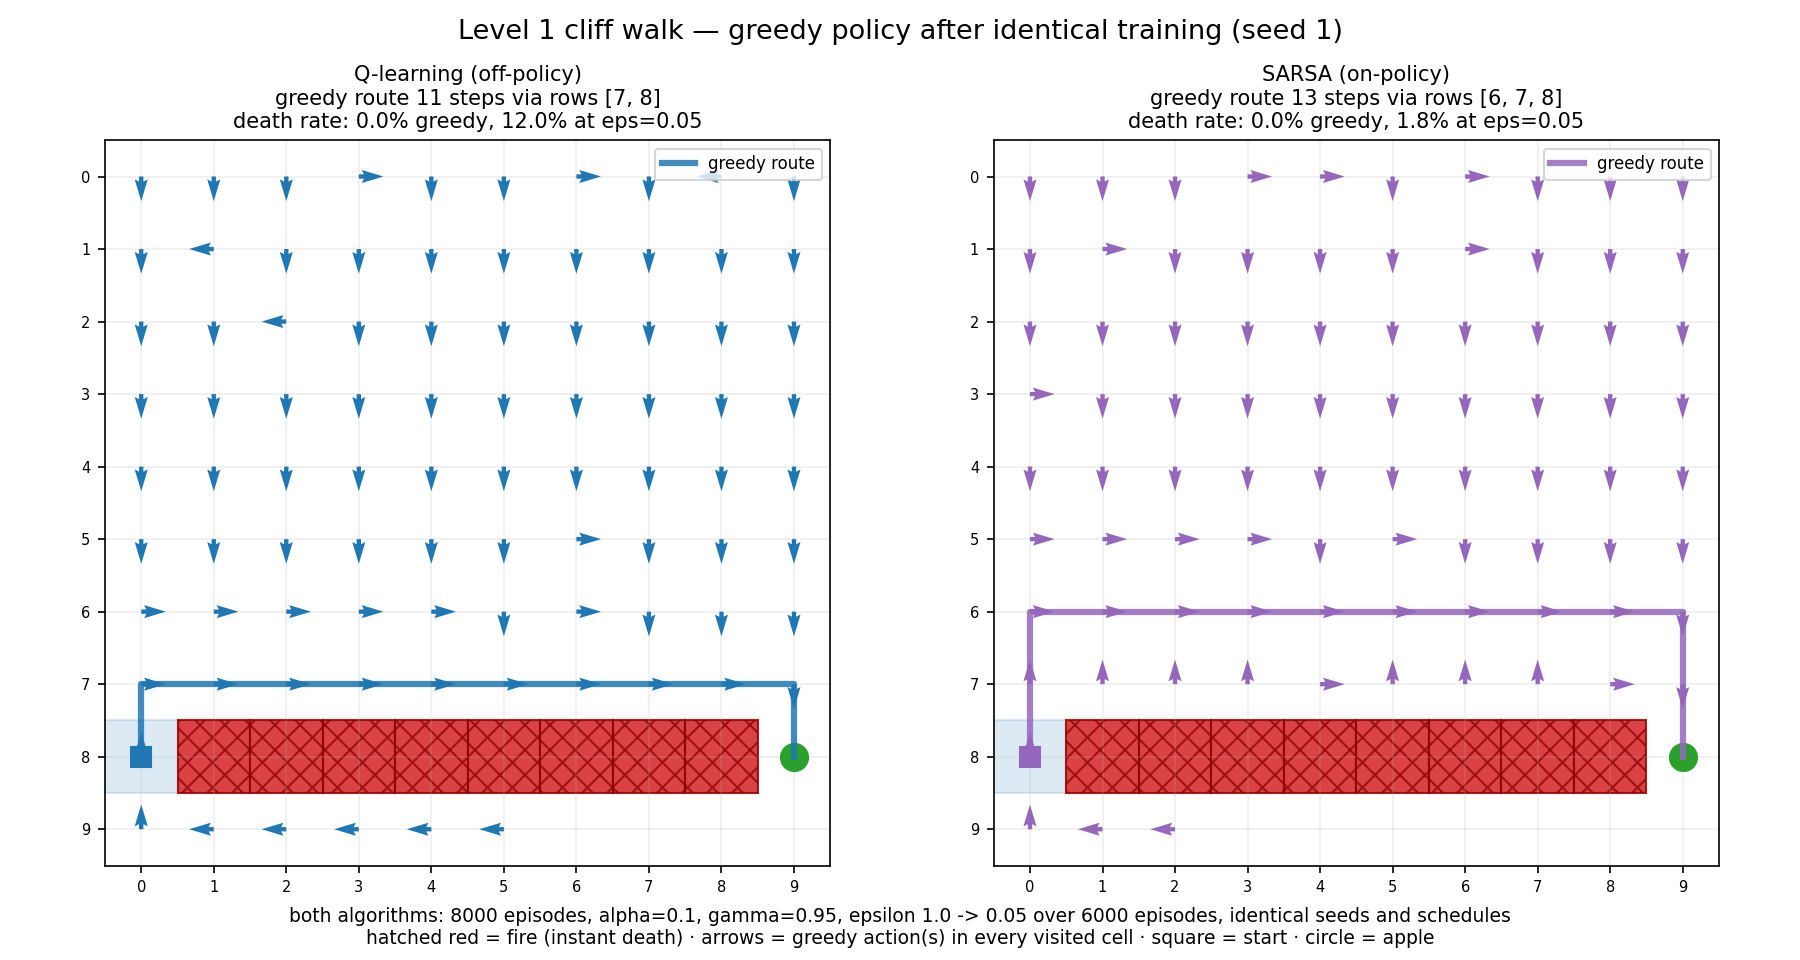
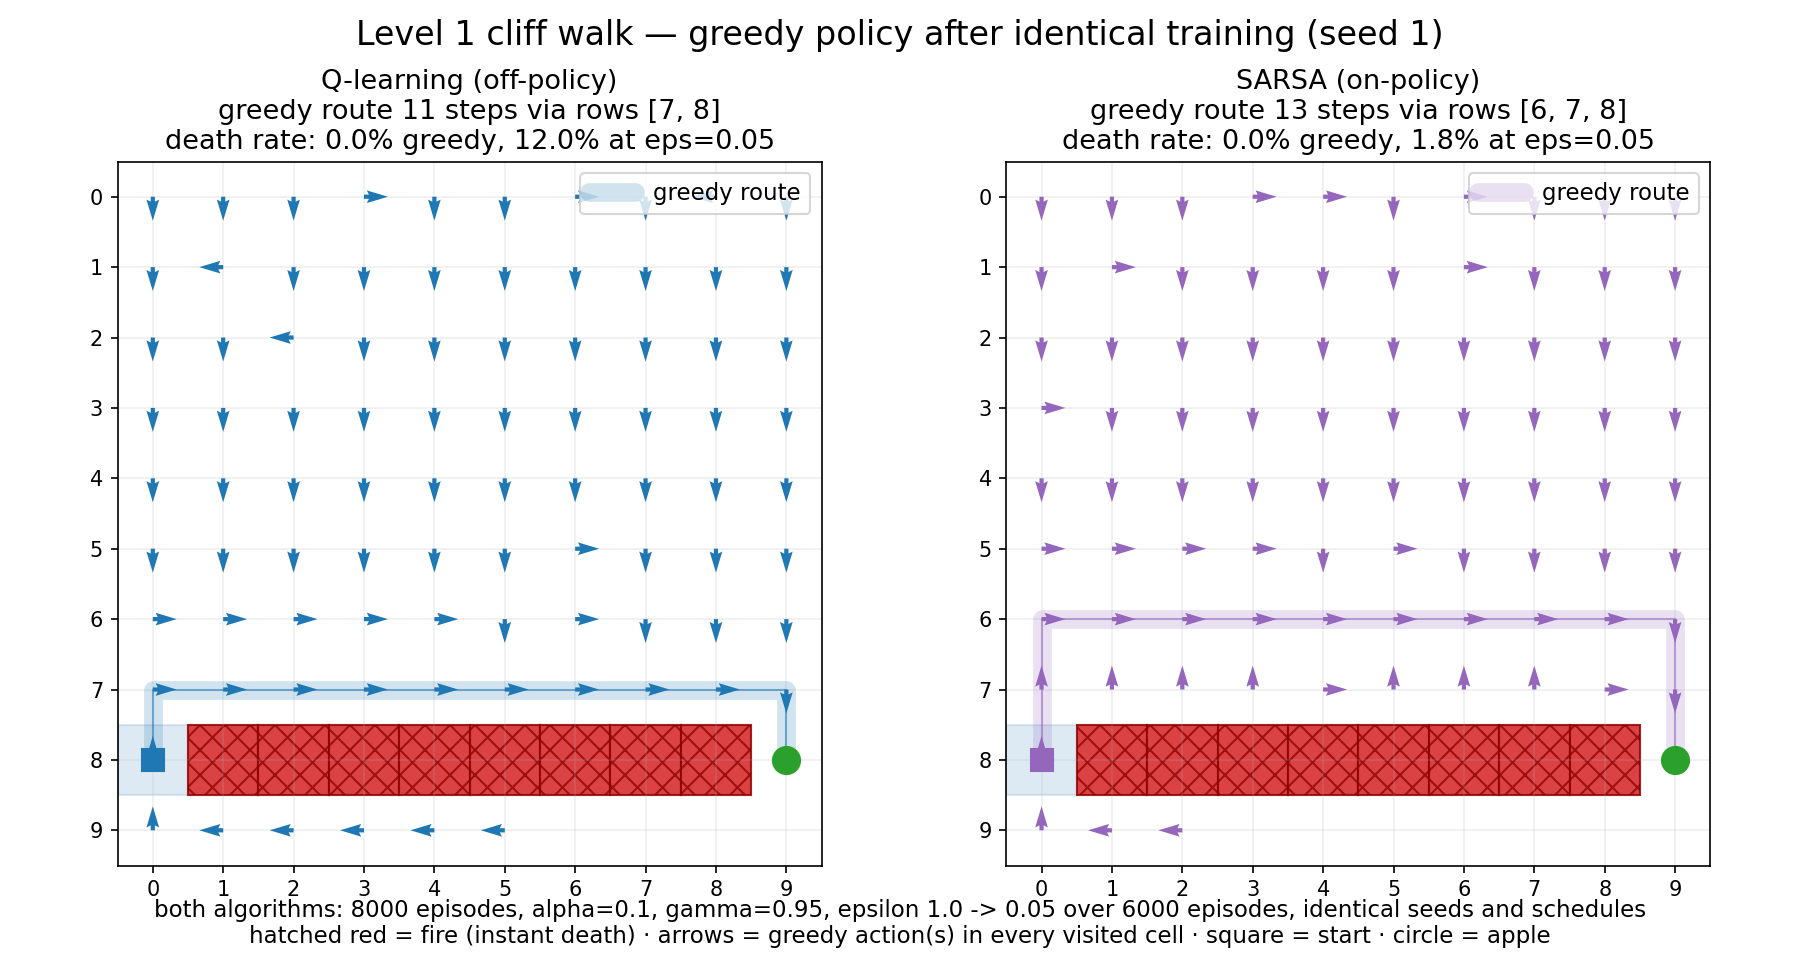
fix(results): stop the route line hiding the level 1 policy arrows (A3-019)
The greedy route was drawn at zorder 5 over an arrow field at zorder 3, so
Q-learning's row-7 arrows were completely covered. Those arrows running
parallel to the fire are the visual claim of that panel, and SARSA's route
leaves row 7 clear, so the defect silently weakened exactly one half of a
side-by-side comparison. The route is now a wide translucent corridor at
zorder 2.0 with a thin centre line at 2.5, both below the arrows.

Font sizes rise throughout - panel titles 10 to 13pt, legend 8 to 11, caption
9 to 11, suptitle 13 to 16, tick labels 7 to 10. The report has a hard ten
page limit, so this figure will be placed at roughly 60% scale, where 7pt tick
labels land at 4.2pt.

Two prose corrections. The 11-step optimum is not unique: row 7 above the fire
and row 9 below it both tie, which is worth saying because it makes the point
that the shortest route is necessarily a fire-hugging one. And SARSA is now
described by its route length and the rows it uses rather than as never going
near the fire - on some seeds it descends its final column early and clips one
fire-adjacent cell, which lifts its death rate to about 4%. The direction of
the effect is stable across seeds; that stronger phrasing is not.

Regenerated for seeds 0 and 1. Both still report ROUTES DIFFER.

Closes A3-019. Also closes A3-007, verified independently: every headline
number recomputed from the raw per-episode CSVs, and four mutants applied to
[…]

diff --git a/train/train_gridworld.py b/train/train_gridworld.py
@@ -446,7 +446,7 @@ def _draw_level_background(axis, grid, bit_cells, mask: int, n_rows: int, n_cols
     axis.set_yticks(range(n_rows))
     axis.set_aspect("equal")
     axis.grid(alpha=0.2)
-    axis.tick_params(labelsize=7)
+    axis.tick_params(labelsize=10)
 
 
 # --- run ----------------------------------------------------------------------------------------
@@ -739,10 +739,18 @@ def plot_policy_comparison(
             axis.quiver(xs, ys, us, vs, angles="xy", scale_units="xy", scale=1.0, color=colour,
                         width=0.006, zorder=3)
 
+        # The route is a wide translucent corridor UNDERNEATH the arrows (zorder 3), not a solid
+        # line over them. Drawn on top at linewidth 3 it hid Q-learning's row-7 arrows entirely --
+        # and those arrows, running parallel to the fire, are the whole visual claim of this panel.
+        # SARSA's route leaves row 7 visible, so the defect silently weakened one half of a
+        # side-by-side comparison. Both layers stay below zorder 3 for that reason.
         route = rollout.path
-        axis.plot([c for _, c in route], [r for r, _ in route], color=colour, linewidth=3.0,
-                  alpha=0.85, zorder=5, label="greedy route")
-        axis.plot(route[0][1], route[0][0], marker="s", color=colour, markersize=10, zorder=6)
+        route_x = [c for _, c in route]
+        route_y = [r for r, _ in route]
+        axis.plot(route_x, route_y, color=colour, linewidth=9.0, alpha=0.20,
+                  solid_capstyle="round", zorder=2.0, label="greedy route")
+        axis.plot(route_x, route_y, color=colour, linewidth=1.0, alpha=0.55, zorder=2.5)
+        axis.plot(route[0][1], route[0][0], marker="s", color=colour, markersize=11, zorder=6)
 
         greedy = summary["death_rates"]["greedy"]
         behaviour = summary["death_rates"]["behaviour"]
@@ -751,15 +759,15 @@ def plot_policy_comparison(
             f"greedy route {rollout.steps} steps via rows {_route_rows(rollout)}\n"
             f"death rate: {greedy['death_rate']:.1%} greedy, "
             f"{behaviour['death_rate']:.1%} at eps={behaviour['epsilon']}",
-            fontsize=10,
+            fontsize=13,
         )
-        axis.legend(loc="upper right", fontsize=8)
+        axis.legend(loc="upper right", fontsize=11)
 
     any_summary = next(iter(summaries.values()))
     config: TabularConfig = any_summary["result"].config
     figure.suptitle(
         f"Level {level} cliff walk — greedy policy after identical training (seed {config.seed})",
-        fontsize=13,
+        fontsize=16,
     )
     # Two short lines rather than one long one: at this figure width a single caption runs off
     # both edges, and the caption is what makes the panels readable at report scale.
@@ -773,7 +781,7 @@ def plot_policy_comparison(
         f"square = start · circle = apple",
         ha="center",
         va="bottom",
-        fontsize=9,
+        fontsize=11,
     )
     figure.tight_layout(rect=(0.0, 0.075, 1.0, 0.955))
     path.parent.mkdir(parents=True, exist_ok=True)
@@ -828,8 +836,9 @@ episodes) built by the same `epsilon_schedule()` function, from the same config 
 differ in exactly one line of code: the bootstrap term of the update.
 
 Level {level} places a wall of fire along row 8 between the start at (8,0) and the apple at (8,9).
-The shortest safe route is {optimum} steps and runs along row 7, the row directly above the fire;
-any route further from the fire is longer.
+Two routes tie for the {optimum}-step optimum: one along row 7 directly above the fire and one
+along row 9 directly below it. Both run the length of the wall one cell away from it, so the
+shortest route is necessarily a fire-hugging one, and any route that keeps further away is longer.
 
 ## What the two agents learned
 
@@ -848,7 +857,8 @@ any route further from the fire is longer.
 Q-learning's target is `r + gamma * max_a' Q[s',a']`. The max is taken over the *best* action
 available at the successor state, so the value it learns is the value of a policy that never
 explores. Standing next to the fire is therefore free: the agent evaluates itself as if it will
-always choose to walk sideways, never down. It converges on the shortest route, which hugs row 7.
+always choose to walk sideways, never down. It converges on one of the two optimal routes, hugging
+row 7.
 
 SARSA's target is `r + gamma * Q[s',a']`, where `a'` is the action the epsilon-greedy behaviour
 policy actually goes on to take. Some fraction of the time that action is a random one, and next to
@@ -869,6 +879,13 @@ The death rates are the same statement without the picture. With exploration swi
 tables are safe, because neither greedy route ever steps into the fire. Restore the exploration the
 agent trained under and the routes separate: Q-learning dies in {q_beh_rate} of episodes against
 SARSA's {sarsa_beh_rate}. SARSA pays {sarsa_roll.steps - q_roll.steps} extra steps for that.
+
+State the result as the table states it — SARSA's greedy route is {sarsa_roll.steps} steps via rows
+{_route_rows(sarsa_roll)}, and it dies several times less often at the exploration it trained under.
+"SARSA never goes near the fire" is stronger than the evidence supports: on some seeds its route
+descends its final column early and clips one fire-adjacent cell, which lifts its death rate to
+around 4% while still leaving it well clear of Q-learning's. The direction of the effect is stable
+across seeds; the claim that its route is fire-free is not.
 
 This is also why the effect depends on `epsilon_end`. As epsilon approaches zero the behaviour
 policy converges on the greedy policy, `Q[s',a']` converges on `max_a' Q[s',a']`, and the two

diff --git a/docs/tickets/INDEX.md b/docs/tickets/INDEX.md
@@ -3,13 +3,12 @@
 Generated by `scripts/sync_tickets.py`. Do not edit by hand — ask the `ticket-bot` agent to
 raise, update or close a ticket, or edit the ticket file and re-run the script.
 
-**13 open** · **6 done** · **40 of 40 rubric points** tracked (each row counted once, even where two tickets share it)
+**11 open** · **8 done** · **40 of 40 rubric points** tracked (each row counted once, even where two tickets share it)
 
 ## Open
 
 | ID | Pri | Type | Title | Rubric | Pts | Area | Owner | Issue |
 |----|-----|------|-------|--------|-----|------|-------|-------|
-| [A3-007](A3-007-implement-the-intrinsic-reward-experiment-on.md) | P0 | feature | Implement the intrinsic reward experiment on level 6 _(blocked by A3-005)_ | F | 3 | gridworld | unassigned | [#7](https://github.com/TDuong04/A3_TDuong/issues/7) |
 | [A3-008](A3-008-build-arena-entities-and-physics.md) | P0 | feature | Build arena entities and physics | G | 4.5 | arena | unassigned | [#8](https://github.com/TDuong04/A3_TDuong/issues/8) |
 | [A3-009](A3-009-build-the-arena-renderer-hud-and.md) | P0 | feature | Build the arena renderer, HUD and observation overlay _(blocked by A3-008)_ | G | 4.5 | arena | unassigned | [#9](https://github.com/TDuong04/A3_TDuong/issues/9) |
 | [A3-010](A3-010-wrap-the-arena-in-the-gym.md) | P0 | feature | Wrap the arena in the Gym-style API with the observation vector _(blocked by A3-008)_ | H | 2.5 | arena | unassigned | [#10](https://github.com/TDuong04/A3_TDuong/issues/10) |
@@ -19,7 +18,6 @@ raise, update or close a ticket, or edit the ticket file and re-run the script.
 | [A3-015](A3-015-record-and-edit-the-video-demonstration.md) | P0 | task | Record and edit the video demonstration _(blocked by A3-012, A3-002)_ | V | 5 | video | unassigned | [#15](https://github.com/TDuong04/A3_TDuong/issues/15) |
 | [A3-013](A3-013-run-the-hyperparameter-sweep-and-tabulate.md) | P1 | task | Run the hyperparameter sweep and tabulate the results _(blocked by A3-011)_ | J3 | 3 | training | unassigned | [#13](https://github.com/TDuong04/A3_TDuong/issues/13) |
 | [A3-017](A3-017-decide-ownership-and-fill-in-the.md) | P1 | chore | Decide ownership and fill in the team table | R | 2.5 | infra | unassigned | [#17](https://github.com/TDuong04/A3_TDuong/issues/17) |
-| [A3-019](A3-019-fix-the-level-1-comparison-figure.md) | P1 | bug | Fix the level 1 comparison figure for report and video use | C | 3 | gridworld | unassigned | [#19](https://github.com/TDuong04/A3_TDuong/issues/19) |
 | [A3-016](A3-016-add-gitattributes-to-normalise-line-endings.md) | P2 | chore | Add .gitattributes to normalise line endings | none | — | infra | unassigned | [#16](https://github.com/TDuong04/A3_TDuong/issues/16) |
 | [A3-018](A3-018-ship-creativity-features-beyond-the-brief.md) | P2 | feature | Ship creativity features beyond the brief _(blocked by A3-009)_ | Creativity | 5 | arena | unassigned | [#18](https://github.com/TDuong04/A3_TDuong/issues/18) |
 
@@ -44,7 +42,9 @@ _none_
 | [A3-003](A3-003-implement-q-learning-and-demonstrate-it.md) | P0 | feature | Implement Q-learning and demonstrate it on level 0 | B | 2.5 | gridworld | unassigned | [#3](https://github.com/TDuong04/A3_TDuong/issues/3) |
 | [A3-004](A3-004-implement-sarsa-and-produce-the-level.md) | P0 | feature | Implement SARSA and produce the level 1 comparison | C | 3 | gridworld | unassigned | [#4](https://github.com/TDuong04/A3_TDuong/issues/4) |
 | [A3-005](A3-005-extend-both-algorithms-to-levels-2.md) | P0 | task | Extend both algorithms to levels 2-3 | D | 3 | gridworld | unassigned | [#5](https://github.com/TDuong04/A3_TDuong/issues/5) |
+| [A3-007](A3-007-implement-the-intrinsic-reward-experiment-on.md) | P0 | feature | Implement the intrinsic reward experiment on level 6 | F | 3 | gridworld | unassigned | [#7](https://github.com/TDuong04/A3_TDuong/issues/7) |
 | [A3-006](A3-006-implement-monster-movement-for-levels-4.md) | P1 | feature | Implement monster movement for levels 4-5 | none | — | gridworld | unassigned | [#6](https://github.com/TDuong04/A3_TDuong/issues/6) |
+| [A3-019](A3-019-fix-the-level-1-comparison-figure.md) | P1 | bug | Fix the level 1 comparison figure for report and video use | C | 3 | gridworld | unassigned | [#19](https://github.com/TDuong04/A3_TDuong/issues/19) |
 
 ## Won't fix
 
@@ -57,4 +57,4 @@ more points or blocks someone else's work; P1 is a smaller row or degraded evide
 quality; P3 is optional. A ticket with `rubric: none` is still required by the brief — it
 simply carries no row of its own.
 
-_6 of 19 tickets complete._
+_8 of 19 tickets complete._

diff --git a/results/comparison_level1_seed0.md b/results/comparison_level1_seed0.md
@@ -8,9 +8,10 @@ alpha 0.1, gamma 0.95, and the same linear epsilon schedule (1.0 -> 0.05 over 60
 built by the same `epsilon_schedule()` function, from the same config block. The two runs differ
 in exactly one line of code: the bootstrap term of the update.
 
-Level 1 places a wall of fire along row 8 between the start at (8,0) and the apple at (8,9). The
-shortest safe route is 11 steps and runs along row 7, the row directly above the fire; any route
-further from the fire is longer.
+Level 1 places a wall of fire along row 8 between the start at (8,0) and the apple at (8,9). Two
+routes tie for the 11-step optimum: one along row 7 directly above the fire and one along row 9
+directly below it. Both run the length of the wall one cell away from it, so the shortest route
+is necessarily a fire-hugging one, and any route that keeps further away is longer.
 
 ## What the two agents learned
 
@@ -29,8 +30,8 @@ further from the fire is longer.
 Q-learning's target is `r + gamma * max_a' Q[s',a']`. The max is taken over the *best* action
 available at the successor state, so the value it learns is the value of a policy that never
 explores. Standing next to the fire is therefore free: the agent evaluates itself as if it will
-always choose to walk sideways, never down. It converges on the shortest route, which hugs row
-7.
+always choose to walk sideways, never down. It converges on one of the two optimal routes,
+hugging row 7.
 
 SARSA's target is `r + gamma * Q[s',a']`, where `a'` is the action the epsilon-greedy behaviour
 policy actually goes on to take. Some fraction of the time that action is a random one, and next
@@ -51,6 +52,13 @@ The death rates are the same statement without the picture. With exploration swi
 tables are safe, because neither greedy route ever steps into the fire. Restore the exploration
 the agent trained under and the routes separate: Q-learning dies in 11.4% of episodes against
 SARSA's 1.8%. SARSA pays 2 extra steps for that.
+
+State the result as the table states it — SARSA's greedy route is 13 steps via rows [6, 7, 8],
+and it dies several times less often at the exploration it trained under. "SARSA never goes near
+the fire" is stronger than the evidence supports: on some seeds its route descends its final
+column early and clips one fire-adjacent cell, which lifts its death rate to around 4% while
+still leaving it well clear of Q-learning's. The direction of the effect is stable across seeds;
+the claim that its route is fire-free is not.
 
 This is also why the effect depends on `epsilon_end`. As epsilon approaches zero the behaviour
 policy converges on the greedy policy, `Q[s',a']` converges on `max_a' Q[s',a']`, and the two

diff --git a/results/comparison_level1_seed1.md b/results/comparison_level1_seed1.md
@@ -8,9 +8,10 @@ alpha 0.1, gamma 0.95, and the same linear epsilon schedule (1.0 -> 0.05 over 60
 built by the same `epsilon_schedule()` function, from the same config block. The two runs differ
 in exactly one line of code: the bootstrap term of the update.
 
-Level 1 places a wall of fire along row 8 between the start at (8,0) and the apple at (8,9). The
-shortest safe route is 11 steps and runs along row 7, the row directly above the fire; any route
-further from the fire is longer.
+Level 1 places a wall of fire along row 8 between the start at (8,0) and the apple at (8,9). Two
+routes tie for the 11-step optimum: one along row 7 directly above the fire and one along row 9
+directly below it. Both run the length of the wall one cell away from it, so the shortest route
+is necessarily a fire-hugging one, and any route that keeps further away is longer.
 
 ## What the two agents learned
 
@@ -29,8 +30,8 @@ further from the fire is longer.
 Q-learning's target is `r + gamma * max_a' Q[s',a']`. The max is taken over the *best* action
 available at the successor state, so the value it learns is the value of a policy that never
 explores. Standing next to the fire is therefore free: the agent evaluates itself as if it will
-always choose to walk sideways, never down. It converges on the shortest route, which hugs row
-7.
+always choose to walk sideways, never down. It converges on one of the two optimal routes,
+hugging row 7.
 
 SARSA's target is `r + gamma * Q[s',a']`, where `a'` is the action the epsilon-greedy behaviour
 policy actually goes on to take. Some fraction of the time that action is a random one, and next
@@ -51,6 +52,13 @@ The death rates are the same statement without the picture. With exploration swi
 tables are safe, because neither greedy route ever steps into the fire. Restore the exploration
 the agent trained under and the routes separate: Q-learning dies in 12.0% of episodes against
 SARSA's 1.8%. SARSA pays 2 extra steps for that.
+
+State the result as the table states it — SARSA's greedy route is 13 steps via rows [6, 7, 8],
+and it dies several times less often at the exploration it trained under. "SARSA never goes near
+the fire" is stronger than the evidence supports: on some seeds its route descends its final
+column early and clips one fire-adjacent cell, which lifts its death rate to around 4% while
+still leaving it well clear of Q-learning's. The direction of the effect is stable across seeds;
+the claim that its route is fire-free is not.
 
 This is also why the effect depends on `epsilon_end`. As epsilon approaches zero the behaviour
 policy converges on the greedy policy, `Q[s',a']` converges on `max_a' Q[s',a']`, and the two

diff --git a/docs/tickets/A3-019-fix-the-level-1-comparison-figure.md b/docs/tickets/A3-019-fix-the-level-1-comparison-figure.md
@@ -2,7 +2,7 @@
 id: A3-019
 title: Fix the level 1 comparison figure for report and video use
 type: bug
-status: open
+status: done
 priority: P1
 rubric: C
 points_at_risk: 3.0
@@ -38,12 +38,12 @@ tick labels from 7pt to 3.8pt. Legible at full size, marginal below about 80%. T
 
 ## Acceptance criteria
 
-- [ ] Route line no longer hides the policy arrows — thin it, drop its alpha, or reorder zorder so
+- [x] Route line no longer hides the policy arrows — thin it, drop its alpha, or reorder zorder so
       both read at once. Verify by reopening the PNG and confirming Q-learning's row-7 arrows are
       visible.
-- [ ] Font sizes raised so the figure stays legible at 60% scale, or the figure re-proportioned for
+- [x] Font sizes raised so the figure stays legible at 60% scale, or the figure re-proportioned for
       a full-width landscape placement
-- [ ] Regenerated for seeds 0 and 1, and the markdown regenerated alongside so prose and figure
+- [x] Regenerated for seeds 0 and 1, and the markdown regenerated alongside so prose and figure
       cannot drift
 
 ## Notes
@@ -62,3 +62,13 @@ Two prose corrections belong with this, both in `train/train_gridworld.py`'s gen
 - 2026-08-20 — raised from the A3-004 evaluation; the result is verified, the artifact is not
   communicating it
 - mirrored to GitHub issue https://github.com/TDuong04/A3_TDuong/issues/19
+- 2026-08-20 — fixed. The route is now a wide translucent corridor at zorder 2.0 with a 1px centre
+  line at 2.5, both below the arrow field at zorder 3, so nothing the panel exists to show can be
+  covered. Confirmed by reopening the regenerated PNG: Q-learning's row-7 arrows read clearly,
+  pointing right, parallel to the fire, inside its own route band. Panel titles 10 -> 13pt, legend
+  8 -> 11, caption 9 -> 11, suptitle 13 -> 16, tick labels 7 -> 10, which holds at the 60% scale a
+  10-page report will force. Both prose corrections applied: the optimum is now described as two
+  tied 11-step routes (row 7 above the fire, row 9 below), and a paragraph now states the SARSA
+  result as route length plus rows used and explicitly retires the stronger "never near the fire"
+  phrasing, since on some seeds its route clips one fire-adjacent cell. Regenerated for seeds 0 and
+  1; both still report ROUTES DIFFER. Closed.

diff --git a/docs/tickets/A3-007-implement-the-intrinsic-reward-experiment-on.md b/docs/tickets/A3-007-implement-the-intrinsic-reward-experiment-on.md
@@ -2,7 +2,7 @@
 id: A3-007
 title: Implement the intrinsic reward experiment on level 6
 type: feature
-status: open
+status: done
 priority: P0
 rubric: F
 points_at_risk: 3.0
@@ -12,7 +12,7 @@ owner: unassigned
 blocks: [A3-014]
 blocked_by: [A3-005]
 created: 2026-08-19
-updated: 2026-08-19
+updated: 2026-08-20
 ---
 
 # A3-007 — Implement the intrinsic reward experiment on level 6
@@ -25,11 +25,11 @@ curve shows a visible difference.
 
 ## Acceptance criteria
 
-- [ ] `r_i = strength / sqrt(n(s) + 1)` implemented exactly as the brief states
-- [ ] `n(s)` counts visits within the current episode and resets on reset
-- [ ] Environment rewards unchanged; the intrinsic term is added only inside the update
-- [ ] Two runs on level 6 at strengths 0.0 and 0.5, plotted on one axis
-- [ ] Short written explanation of the improvement for the report
+- [x] `r_i = strength / sqrt(n(s) + 1)` implemented exactly as the brief states
+- [x] `n(s)` counts visits within the current episode and resets on reset
+- [x] Environment rewards unchanged; the intrinsic term is added only inside the update
+- [x] Two runs on level 6 at strengths 0.0 and 0.5, plotted on one axis
+- [x] Short written explanation of the improvement for the report
 
 ## Notes
 
@@ -39,3 +39,12 @@ Config block `intrinsic_experiment` already exists in `config/gridworld.yaml`.
 
 - 2026-08-19 — created during project setup
 - mirrored to GitHub issue https://github.com/TDuong04/A3_TDuong/issues/7
+- 2026-08-20 — implemented in `gridworld/algorithms.py` (`intrinsic_reward`, `EpisodeVisitCounts`,
+  `train_with_intrinsic_reward`); sweep artifacts in `results/intrinsic_level6_q.*`
+- 2026-08-20 — verified: all five headline numbers recomputed from the raw per-episode CSVs and
+  matched exactly (final-500 solved 1.0000 at strength 0 against 0.3280 at 0.5; all-episode 0.8886
+  against 0.3953). The identical-first-success artefact reproduces — every non-zero strength first
+  opens the chest on the same episodes, seed for seed, against a different set for the baseline.
+  Four mutants applied to the intrinsic code (sqrt offset, counter never reset, shaped return
+  logged instead of the environment return, bonus keyed on the state left) and all four were
+  killed by `tests/test_gridworld_intrinsic.py`. Closed.
